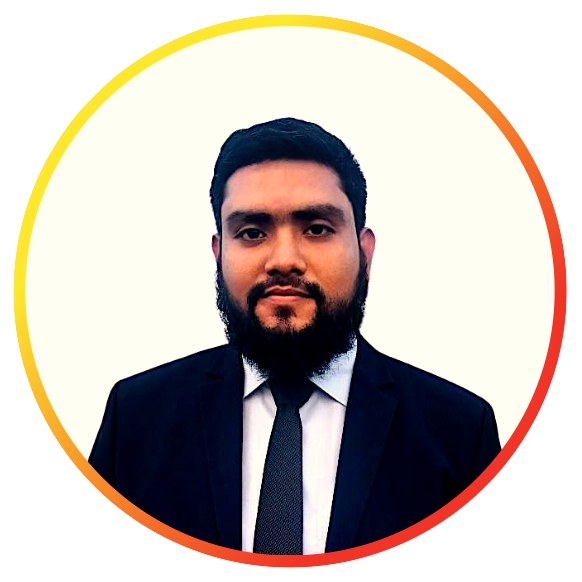
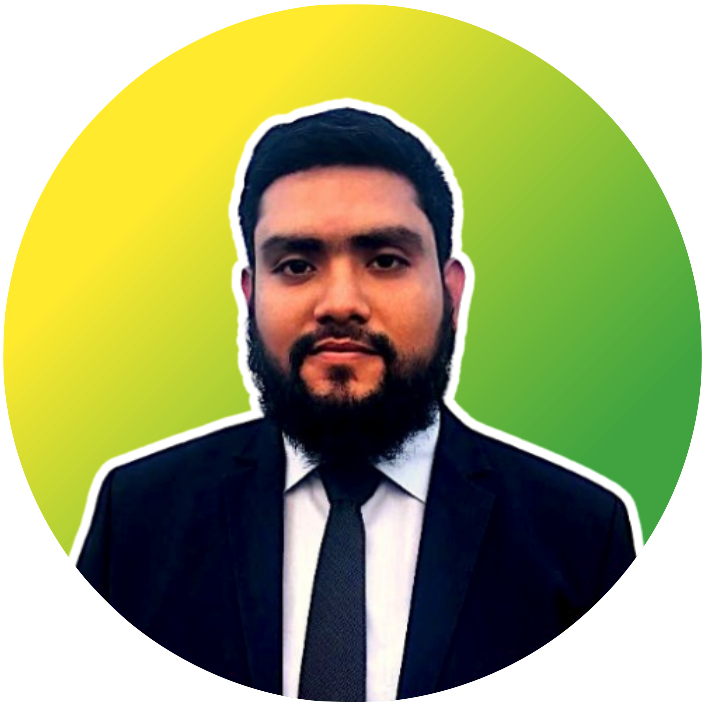
color update

diff --git a/lib/presentation/pages/portrait/portrait_view.dart b/lib/presentation/pages/portrait/portrait_view.dart
@@ -120,7 +120,7 @@ class _PortraitViewState extends State<PortraitView> {
               decoration: BoxDecoration(
                 borderRadius: BorderRadius.circular(500),
                 gradient: const LinearGradient(
-                  colors: [AppColors.yellow, AppColors.red],
+                  colors: [AppColors.yellow, AppColors.green],
                   begin: Alignment.topCenter,
                   end: Alignment.centerRight,
                   tileMode: TileMode.clamp,
@@ -138,7 +138,7 @@ class _PortraitViewState extends State<PortraitView> {
                         AppColors.black.withOpacity(.4)),
                   ),
                   errorWidget: (context, url, error) =>
-                      Image.asset(AppAssets.me4Img),
+                      Image.asset(AppAssets.me6Img),
                 ),
               ),
             ),

diff --git a/lib/presentation/pages/portrait/widgets/portrait_experience_part.dart b/lib/presentation/pages/portrait/widgets/portrait_experience_part.dart
@@ -30,7 +30,7 @@ class PortraitExperiencePart1 extends StatelessWidget {
             gradient: LinearGradient(
               colors: [
                 AppColors.yellow.withOpacity(.05),
-                AppColors.red.withOpacity(.4)
+                AppColors.green.withOpacity(.4)
               ],
               begin: Alignment.topLeft,
               end: Alignment.bottomRight,
@@ -258,7 +258,7 @@ class PortraitExperiencePart2 extends StatelessWidget {
         gradient: LinearGradient(
           colors: [
             AppColors.yellow.withOpacity(.05),
-            AppColors.red.withOpacity(.4)
+            AppColors.green.withOpacity(.4)
           ],
           begin: Alignment.topLeft,
           end: Alignment.bottomRight,

diff --git a/lib/presentation/pages/landscape/widgets/experience_part.dart b/lib/presentation/pages/landscape/widgets/experience_part.dart
@@ -26,7 +26,7 @@ class ExperiencePart1 extends StatelessWidget {
             gradient: LinearGradient(
               colors: [
                 AppColors.yellow.withOpacity(.05),
-                AppColors.red.withOpacity(.4)
+                AppColors.green.withOpacity(.4)
               ],
               begin: Alignment.topLeft,
               end: Alignment.bottomRight,
@@ -251,7 +251,7 @@ class ExperiencePart2 extends StatelessWidget {
         gradient: LinearGradient(
           colors: [
             AppColors.yellow.withOpacity(.05),
-            AppColors.red.withOpacity(.4)
+            AppColors.green.withOpacity(.4)
           ],
           begin: Alignment.topLeft,
           end: Alignment.bottomRight,

diff --git a/lib/presentation/pages/portrait/widgets/portrait_details_part.dart b/lib/presentation/pages/portrait/widgets/portrait_details_part.dart
@@ -21,7 +21,7 @@ class PortraitDetailsPart extends StatelessWidget {
               decoration: BoxDecoration(
                 borderRadius: BorderRadius.circular(500),
                 gradient: const LinearGradient(
-                  colors: [AppColors.yellow, AppColors.red],
+                  colors: [AppColors.yellow, AppColors.green],
                   begin: Alignment.topCenter,
                   end: Alignment.centerRight,
                   tileMode: TileMode.clamp,

diff --git a/lib/presentation/pages/landscape/widgets/details_part.dart b/lib/presentation/pages/landscape/widgets/details_part.dart
@@ -60,7 +60,7 @@ class DetailsPart extends StatelessWidget {
               decoration: BoxDecoration(
                 borderRadius: BorderRadius.circular(500),
                 gradient: const LinearGradient(
-                  colors: [AppColors.yellow, AppColors.red],
+                  colors: [AppColors.yellow, AppColors.green],
                   begin: Alignment.topCenter,
                   end: Alignment.centerRight,
                   tileMode: TileMode.clamp,

diff --git a/lib/presentation/widgets/shader_mask_widget.dart b/lib/presentation/widgets/shader_mask_widget.dart
@@ -10,7 +10,7 @@ class ShaderMaskWidget extends StatelessWidget {
         blendMode: BlendMode.srcATop,
         shaderCallback: (Rect bounds) {
           return const LinearGradient(
-            colors: [AppColors.yellow, AppColors.red],
+            colors: [AppColors.yellow, AppColors.green],
             begin: Alignment.centerLeft,
             end: Alignment.centerRight,
             tileMode: TileMode.clamp,

diff --git a/lib/presentation/utils/app_colors.dart b/lib/presentation/utils/app_colors.dart
@@ -8,6 +8,8 @@ class AppColors {
   static const Color black = Color(0xFF191919);
   static const Color lightGrey = Color(0xFFCCCCCC);
   static const Color green = Colors.green;
+  static const Color greenAccesnt = Colors.greenAccent;
+
   static const Color yellow = Colors.yellow;
   static const Color red = Colors.red;
   static const Color tealGreen = Color(0xFFD7FFE0);
